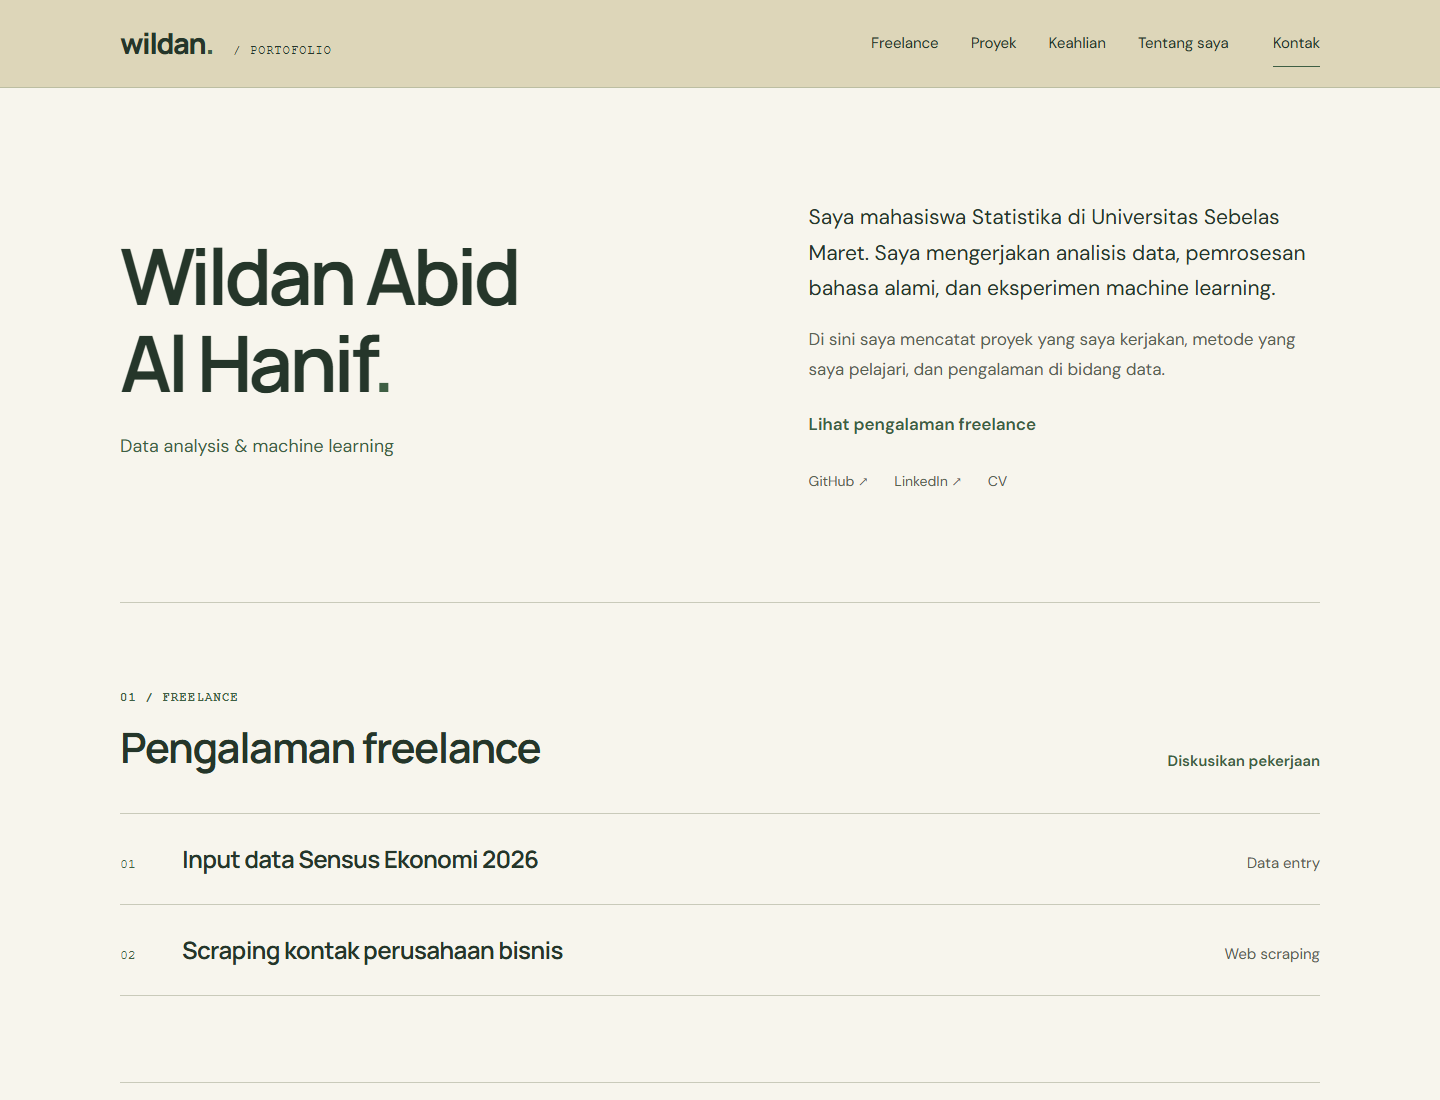
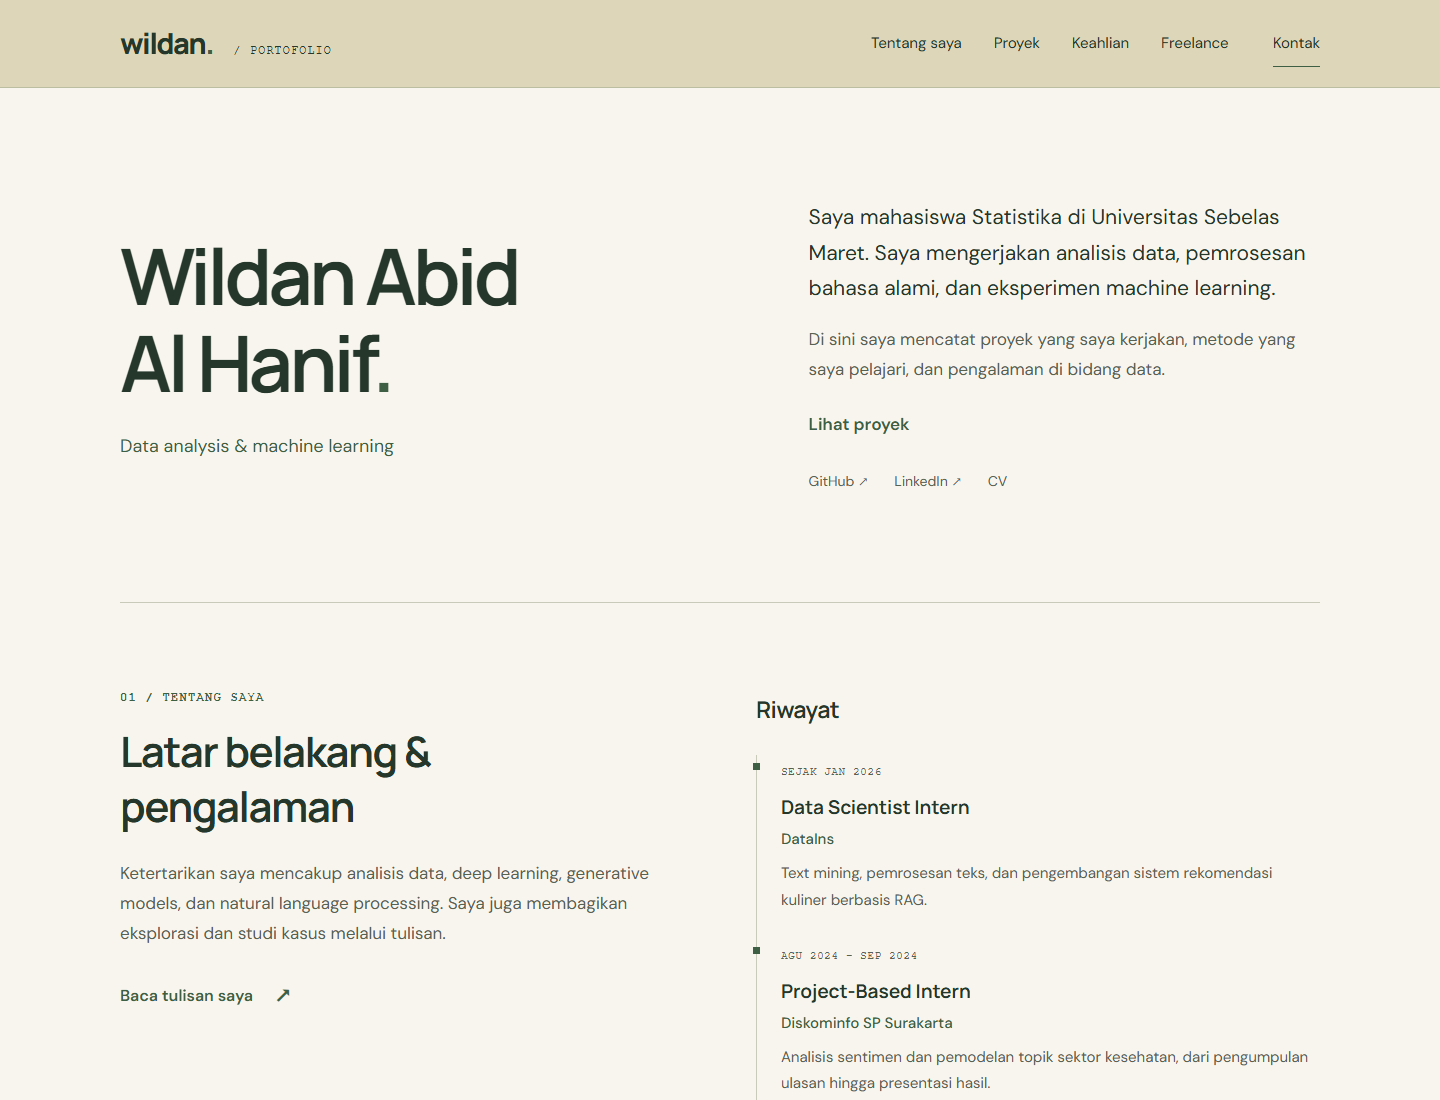
Reorder sections: about first, freelance last
- move Tentang saya to 01 after the hero
- keep Proyek and Keahlian at 02 and 03
- move Freelance to 04 before Kontak
- reorder navigation and hero CTA to match
- rename the experience subheading to Riwayat

diff --git a/index.html b/index.html
@@ -39,8 +39,8 @@
      </span>
     </button>
     <nav aria-label="Navigasi utama" id="navigation">
-     <a href="#freelance">
-      Freelance
+     <a href="#tentang">
+      Tentang saya
      </a>
      <a href="#proyek">
       Proyek
@@ -48,8 +48,8 @@
      <a href="#keahlian">
       Keahlian
      </a>
-     <a href="#tentang">
-      Tentang saya
+     <a href="#freelance">
+      Freelance
      </a>
      <a class="nav-contact" href="#kontak">
       Kontak
@@ -76,8 +76,8 @@
      <p class="hero-context">
       Di sini saya mencatat proyek yang saya kerjakan, metode yang saya pelajari, dan pengalaman di bidang data.
      </p>
-     <a class="text-link" href="#freelance">
-      Lihat pengalaman freelance
+     <a class="text-link" href="#proyek">
+      Lihat proyek
      </a>
      <div aria-label="Profil dan CV" class="hero-profiles" role="group">
       <a href="https://github.com/wildanjr19" rel="noopener noreferrer" target="_blank">
@@ -98,25 +98,100 @@
      </div>
     </div>
    </section>
-   <section aria-labelledby="freelance-title" class="section container freelance-section" id="freelance">
-    <div class="section-heading">
-     <div>
-      <p class="eyebrow">01 / FREELANCE</p>
-      <h2 id="freelance-title">Pengalaman freelance</h2>
-     </div>
-     <a class="text-link" href="#kontak">Diskusikan pekerjaan</a>
+   <section aria-labelledby="about-title" class="section container about-section" id="tentang">
+    <div class="about-intro">
+     <p class="eyebrow">
+      01 / TENTANG SAYA
+     </p>
+     <h2 id="about-title">
+      Latar belakang &amp; pengalaman
+     </h2>
+     <p>
+      Ketertarikan saya mencakup analisis data, deep learning, generative models, dan natural language processing. Saya juga membagikan eksplorasi dan studi kasus melalui tulisan.
+     </p>
+     <a class="text-link" href="https://medium.com/@wildanabidd" rel="noopener noreferrer" target="_blank">
+      Baca tulisan saya
+      <span aria-hidden="true">
+       ↗
+      </span>
+     </a>
     </div>
-    <div class="freelance-list">
-     <article class="freelance-work">
-      <span class="project-number" aria-hidden="true">01</span>
-      <h3>Input data Sensus Ekonomi 2026</h3>
-      <p>Data entry</p>
-     </article>
-     <article class="freelance-work">
-      <span class="project-number" aria-hidden="true">02</span>
-      <h3>Scraping kontak perusahaan bisnis</h3>
-      <p>Web scraping</p>
-     </article>
+    <div class="about-track">
+     <h3 class="track-heading">
+      Riwayat
+     </h3>
+     <div class="timeline">
+      <article>
+       <span class="timeline-date">
+        SEJAK JAN 2026
+       </span>
+       <h4>
+        Data Scientist Intern
+       </h4>
+       <p class="timeline-org">
+        DataIns
+       </p>
+       <p>
+        Text mining, pemrosesan teks, dan pengembangan sistem rekomendasi kuliner berbasis RAG.
+       </p>
+      </article>
+      <article>
+       <span class="timeline-date">
+        AGU 2024 - SEP 2024
+       </span>
+       <h4>
+        Project-Based Intern
+       </h4>
+       <p class="timeline-org">
+        Diskominfo SP Surakarta
+       </p>
+       <p>
+        Analisis sentimen dan pemodelan topik sektor kesehatan, dari pengumpulan ulasan hingga presentasi hasil.
+       </p>
+      </article>
+      <article>
+       <span class="timeline-date">
+        AKADEMIK
+       </span>
+       <h4>
+        Asisten Dosen &amp; Asisten Riset
+       </h4>
+       <p>
+        Algoritma dan pemrograman, serta pemodelan statistika.
+       </p>
+      </article>
+     </div>
+     <div class="achievements">
+      <span class="micro-label">
+       PENCAPAIAN PILIHAN
+      </span>
+      <div>
+       <span class="award-place">
+        01
+       </span>
+       <p>
+        <strong>
+         Juara 1 · Dokter Data Essay
+        </strong>
+        <span>
+         Universitas Diponegoro, 2025
+        </span>
+       </p>
+      </div>
+      <div>
+       <span class="award-place">
+        02
+       </span>
+       <p>
+        <strong>
+         Juara 2 · Data Vers ANAVA
+        </strong>
+        <span>
+         Universitas Gadjah Mada, 2026
+        </span>
+       </p>
+      </div>
+     </div>
     </div>
    </section>
    <section aria-labelledby="projects-title" class="section container" id="proyek">
@@ -674,100 +749,25 @@
      </div>
     </div>
    </section>
-   <section aria-labelledby="about-title" class="section container about-section" id="tentang">
-    <div class="about-intro">
-     <p class="eyebrow">
-      04 / TENTANG SAYA
-     </p>
-     <h2 id="about-title">
-      Latar belakang &amp; pengalaman
-     </h2>
-     <p>
-      Ketertarikan saya mencakup analisis data, deep learning, generative models, dan natural language processing. Saya juga membagikan eksplorasi dan studi kasus melalui tulisan.
-     </p>
-     <a class="text-link" href="https://medium.com/@wildanabidd" rel="noopener noreferrer" target="_blank">
-      Baca tulisan saya
-      <span aria-hidden="true">
-       ↗
-      </span>
-     </a>
+   <section aria-labelledby="freelance-title" class="section container freelance-section" id="freelance">
+    <div class="section-heading">
+     <div>
+      <p class="eyebrow">04 / FREELANCE</p>
+      <h2 id="freelance-title">Pengalaman freelance</h2>
+     </div>
+     <a class="text-link" href="#kontak">Diskusikan pekerjaan</a>
     </div>
-    <div class="about-track">
-     <h3 class="track-heading">
-      Pengalaman
-     </h3>
-     <div class="timeline">
-      <article>
-       <span class="timeline-date">
-        SEJAK JAN 2026
-       </span>
-       <h4>
-        Data Scientist Intern
-       </h4>
-       <p class="timeline-org">
-        DataIns
-       </p>
-       <p>
-        Text mining, pemrosesan teks, dan pengembangan sistem rekomendasi kuliner berbasis RAG.
-       </p>
-      </article>
-      <article>
-       <span class="timeline-date">
-        AGU 2024 - SEP 2024
-       </span>
-       <h4>
-        Project-Based Intern
-       </h4>
-       <p class="timeline-org">
-        Diskominfo SP Surakarta
-       </p>
-       <p>
-        Analisis sentimen dan pemodelan topik sektor kesehatan, dari pengumpulan ulasan hingga presentasi hasil.
-       </p>
-      </article>
-      <article>
-       <span class="timeline-date">
-        AKADEMIK
-       </span>
-       <h4>
-        Asisten Dosen &amp; Asisten Riset
-       </h4>
-       <p>
-        Algoritma dan pemrograman, serta pemodelan statistika.
-       </p>
-      </article>
-     </div>
-     <div class="achievements">
-      <span class="micro-label">
-       PENCAPAIAN PILIHAN
-      </span>
-      <div>
-       <span class="award-place">
-        01
-       </span>
-       <p>
-        <strong>
-         Juara 1 · Dokter Data Essay
-        </strong>
-        <span>
-         Universitas Diponegoro, 2025
-        </span>
-       </p>
-      </div>
-      <div>
-       <span class="award-place">
-        02
-       </span>
-       <p>
-        <strong>
-         Juara 2 · Data Vers ANAVA
-        </strong>
-        <span>
-         Universitas Gadjah Mada, 2026
-        </span>
-       </p>
-      </div>
-     </div>
+    <div class="freelance-list">
+     <article class="freelance-work">
+      <span class="project-number" aria-hidden="true">01</span>
+      <h3>Input data Sensus Ekonomi 2026</h3>
+      <p>Data entry</p>
+     </article>
+     <article class="freelance-work">
+      <span class="project-number" aria-hidden="true">02</span>
+      <h3>Scraping kontak perusahaan bisnis</h3>
+      <p>Web scraping</p>
+     </article>
     </div>
    </section>
    <section aria-labelledby="closing-title" class="closing-section container" id="kontak">

diff --git a/assets/style.css b/assets/style.css
@@ -106,7 +106,7 @@ h2 { font-size: clamp(30px, 3vw, 42px); line-height: 1.3; letter-spacing: -1.5px
 .skills-grid p { font-size: 16px; color: #44533e; }
 .skill-tools { grid-column: 3; color: #44533e; font: 12px/1.8 var(--mono); }
 .skill-tools span { margin-inline: 5px; }
-.about-section { display: grid; grid-template-columns: .95fr 1fr; gap: 100px; }
+.about-section { display: grid; grid-template-columns: .95fr 1fr; gap: 100px; border-top: 1px solid var(--line); }
 .about-intro h2 { margin-block: 16px 26px; max-width: 390px; }
 .about-intro > p:not(.eyebrow) { color: var(--muted); margin-bottom: 18px; }
 .about-intro .text-link { margin-top: 10px; font-size: 16px; }

diff --git a/anti-slop/fix-001-2026-11-17.md b/anti-slop/fix-001-2026-11-17.md
@@ -165,7 +165,7 @@ Rasio dihitung dengan rumus WCAG, bukan dikira-kira.
 |---|---|---|---|
 | C-1 | Keputusan tanpa alasan | PASS | Alasan palet, font, bentuk, motif, dan panah ada di `DESIGN.md`. |
 | C-2 | Kontrol tanpa fungsi | PASS | Semua kontrol diuji atau punya tujuan nyata. |
-| C-3 | Section pengisi template | PASS | Section mengikuti isi: freelance, proyek, keahlian, pengalaman, kontak. |
+| C-3 | Section pengisi template | PASS | Section mengikuti isi: tentang, proyek, keahlian, freelance, kontak. |
 | C-4 | Rusak di state, tema, breakpoint, atau keyboard | PASS | 390px, 1440px, focus, menu, filter, empty state diuji. |
 | C-5 | Klaim atau bukti palsu | PASS | Tidak ada testimoni, logo klien, atau statistik karangan. |
 | R-05 | Layout template | PASS | Bukan hero plus tiga kartu; ritme section bervariasi. |
